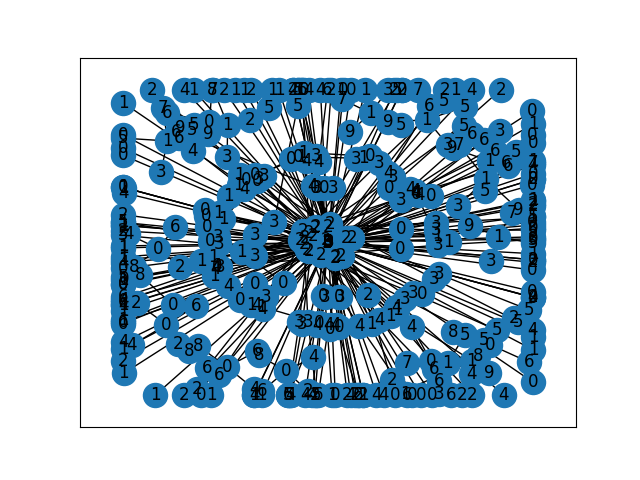
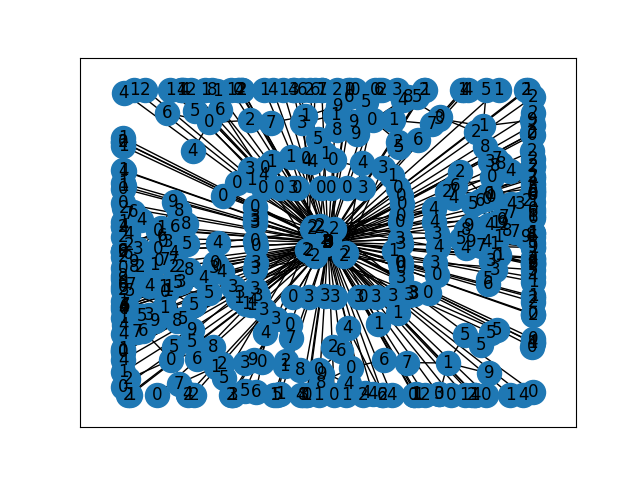
test_general_with initial params in the original code

Changed region(s): [[0.1562, 0.1562, 0.875, 0.875]]

diff --git a/Deep_QLearning_5G-master/main_deepsara.py b/Deep_QLearning_5G-master/main_deepsara.py
@@ -14,7 +14,7 @@ import time
 # import bisect
 #simulation parameters
 # seed = 0
-repetitions = 1 #33
+repetitions = 33 #33
 twindow_length = 1
 # embb_arrival_rate = 10 #5#1#2 #reqXsecond
 # urllc_arrival_rate = 40 #5#2.5 #reqXsecond
@@ -23,9 +23,9 @@ twindow_length = 1
 embb_arrival_rate = 0
 urllc_arrival_rate = 0
 miot_arrival_rate = 0 
-arrival_rates = [10] #[100,80,60,40,30,25,20,15,10,7,5,3,1] #20 ## maybe the number of request to arrive in a time unit
+arrival_rates = [20] #[100,80,60,40,30,25,20,15,10,7,5,3,1] #20 ## maybe the number of request to arrive in a time unit
 
-mean_operation_time = 3 ## initially set to 15, the temination events are never executed
+mean_operation_time = 15 ## initially set to 15, the temination events are never executed
                           
 
 edge_initial = 0
@@ -35,7 +35,7 @@ agente = None
 
 
 #RL-specific parameters 
-episodes = 1 #240##350
+episodes = 350 #240##350
 
 avble_edge_size = 10
 avble_central_size = 10
@@ -890,7 +890,7 @@ def main():
                 edge_initial = controller.substrate.graph["edge_cpu"] ## get the initial values for the ressources
                 centralized_initial = controller.substrate.graph["centralized_cpu"]
                 bw_initial = controller.substrate.graph["bw"]
-                controller.simulation.set_run_till(5)   ## set the run_till variable of SIm to 15, the end of the simulatin is after 15 time units
+                controller.simulation.set_run_till(15)   ## set the run_till variable of SIm to 15, the end of the simulatin is after 15 time units
                                                         ## initially was 15
                 prepare_sim(controller.simulation)   ## creates the arrival events and the twindow_end event to prepare the environment          
                 controller.run()    ## runs all the events of the list one by one, here we execute the run of the class SIm, and a function for each event     
